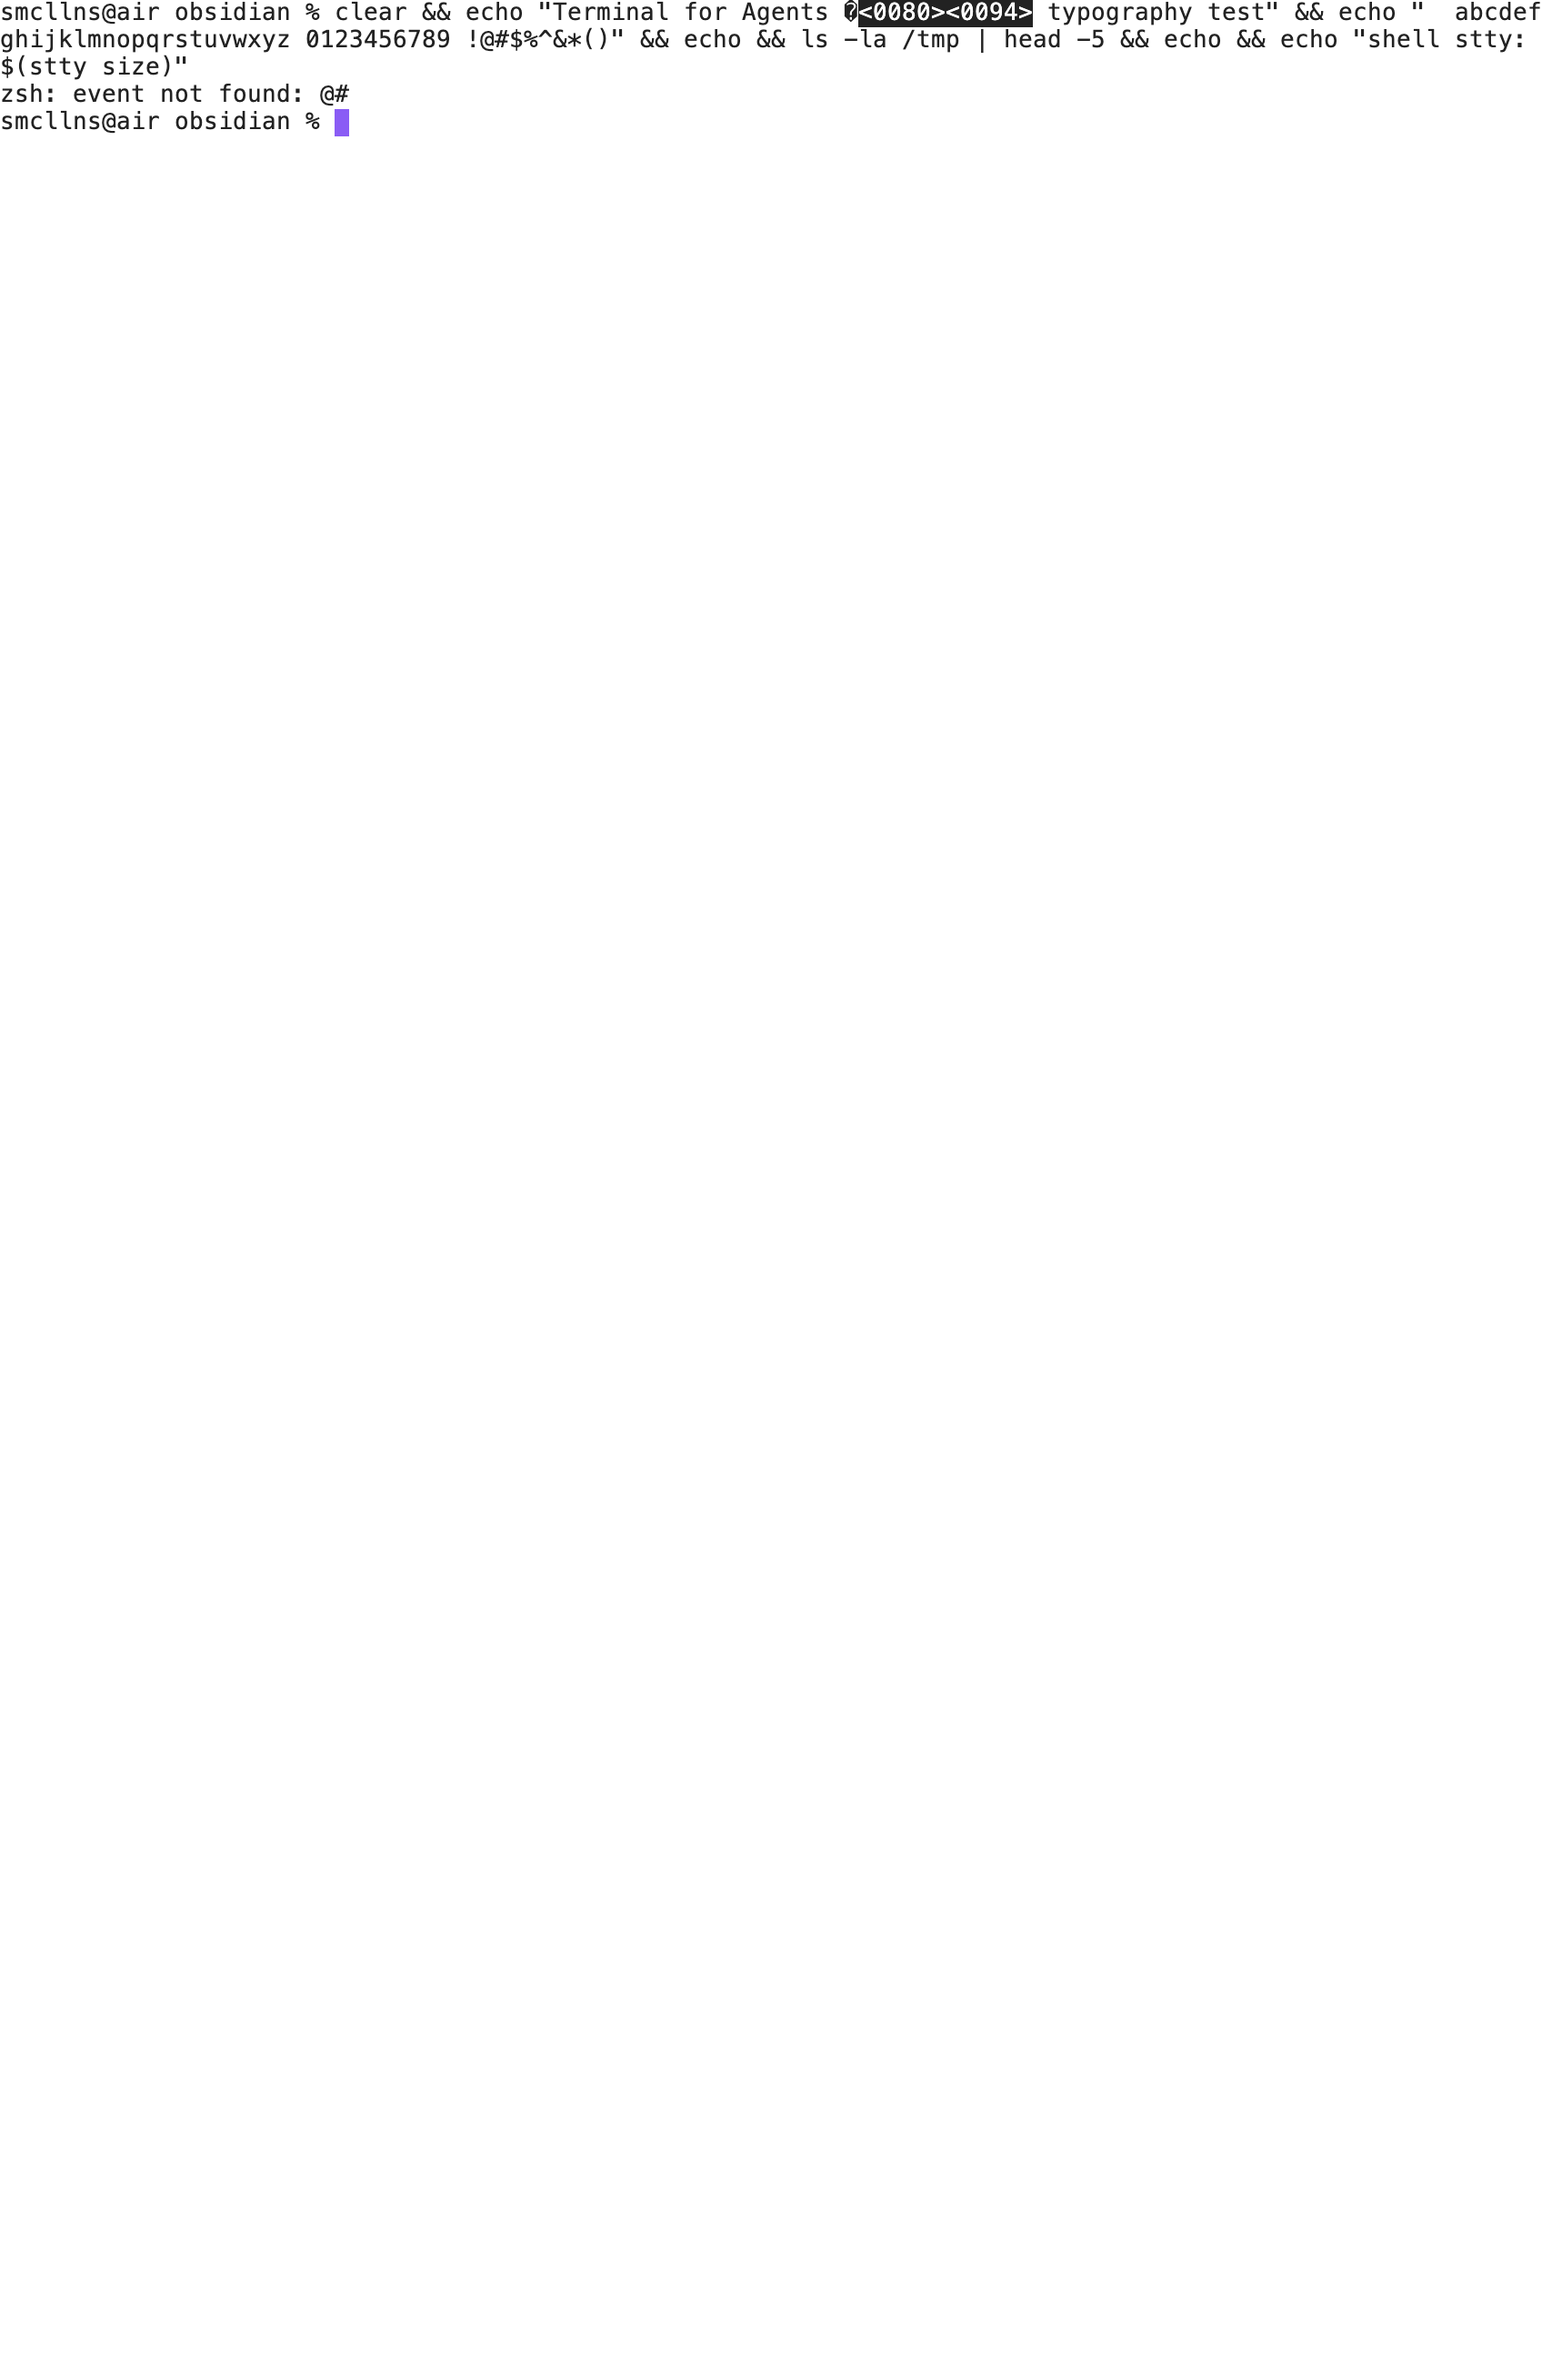
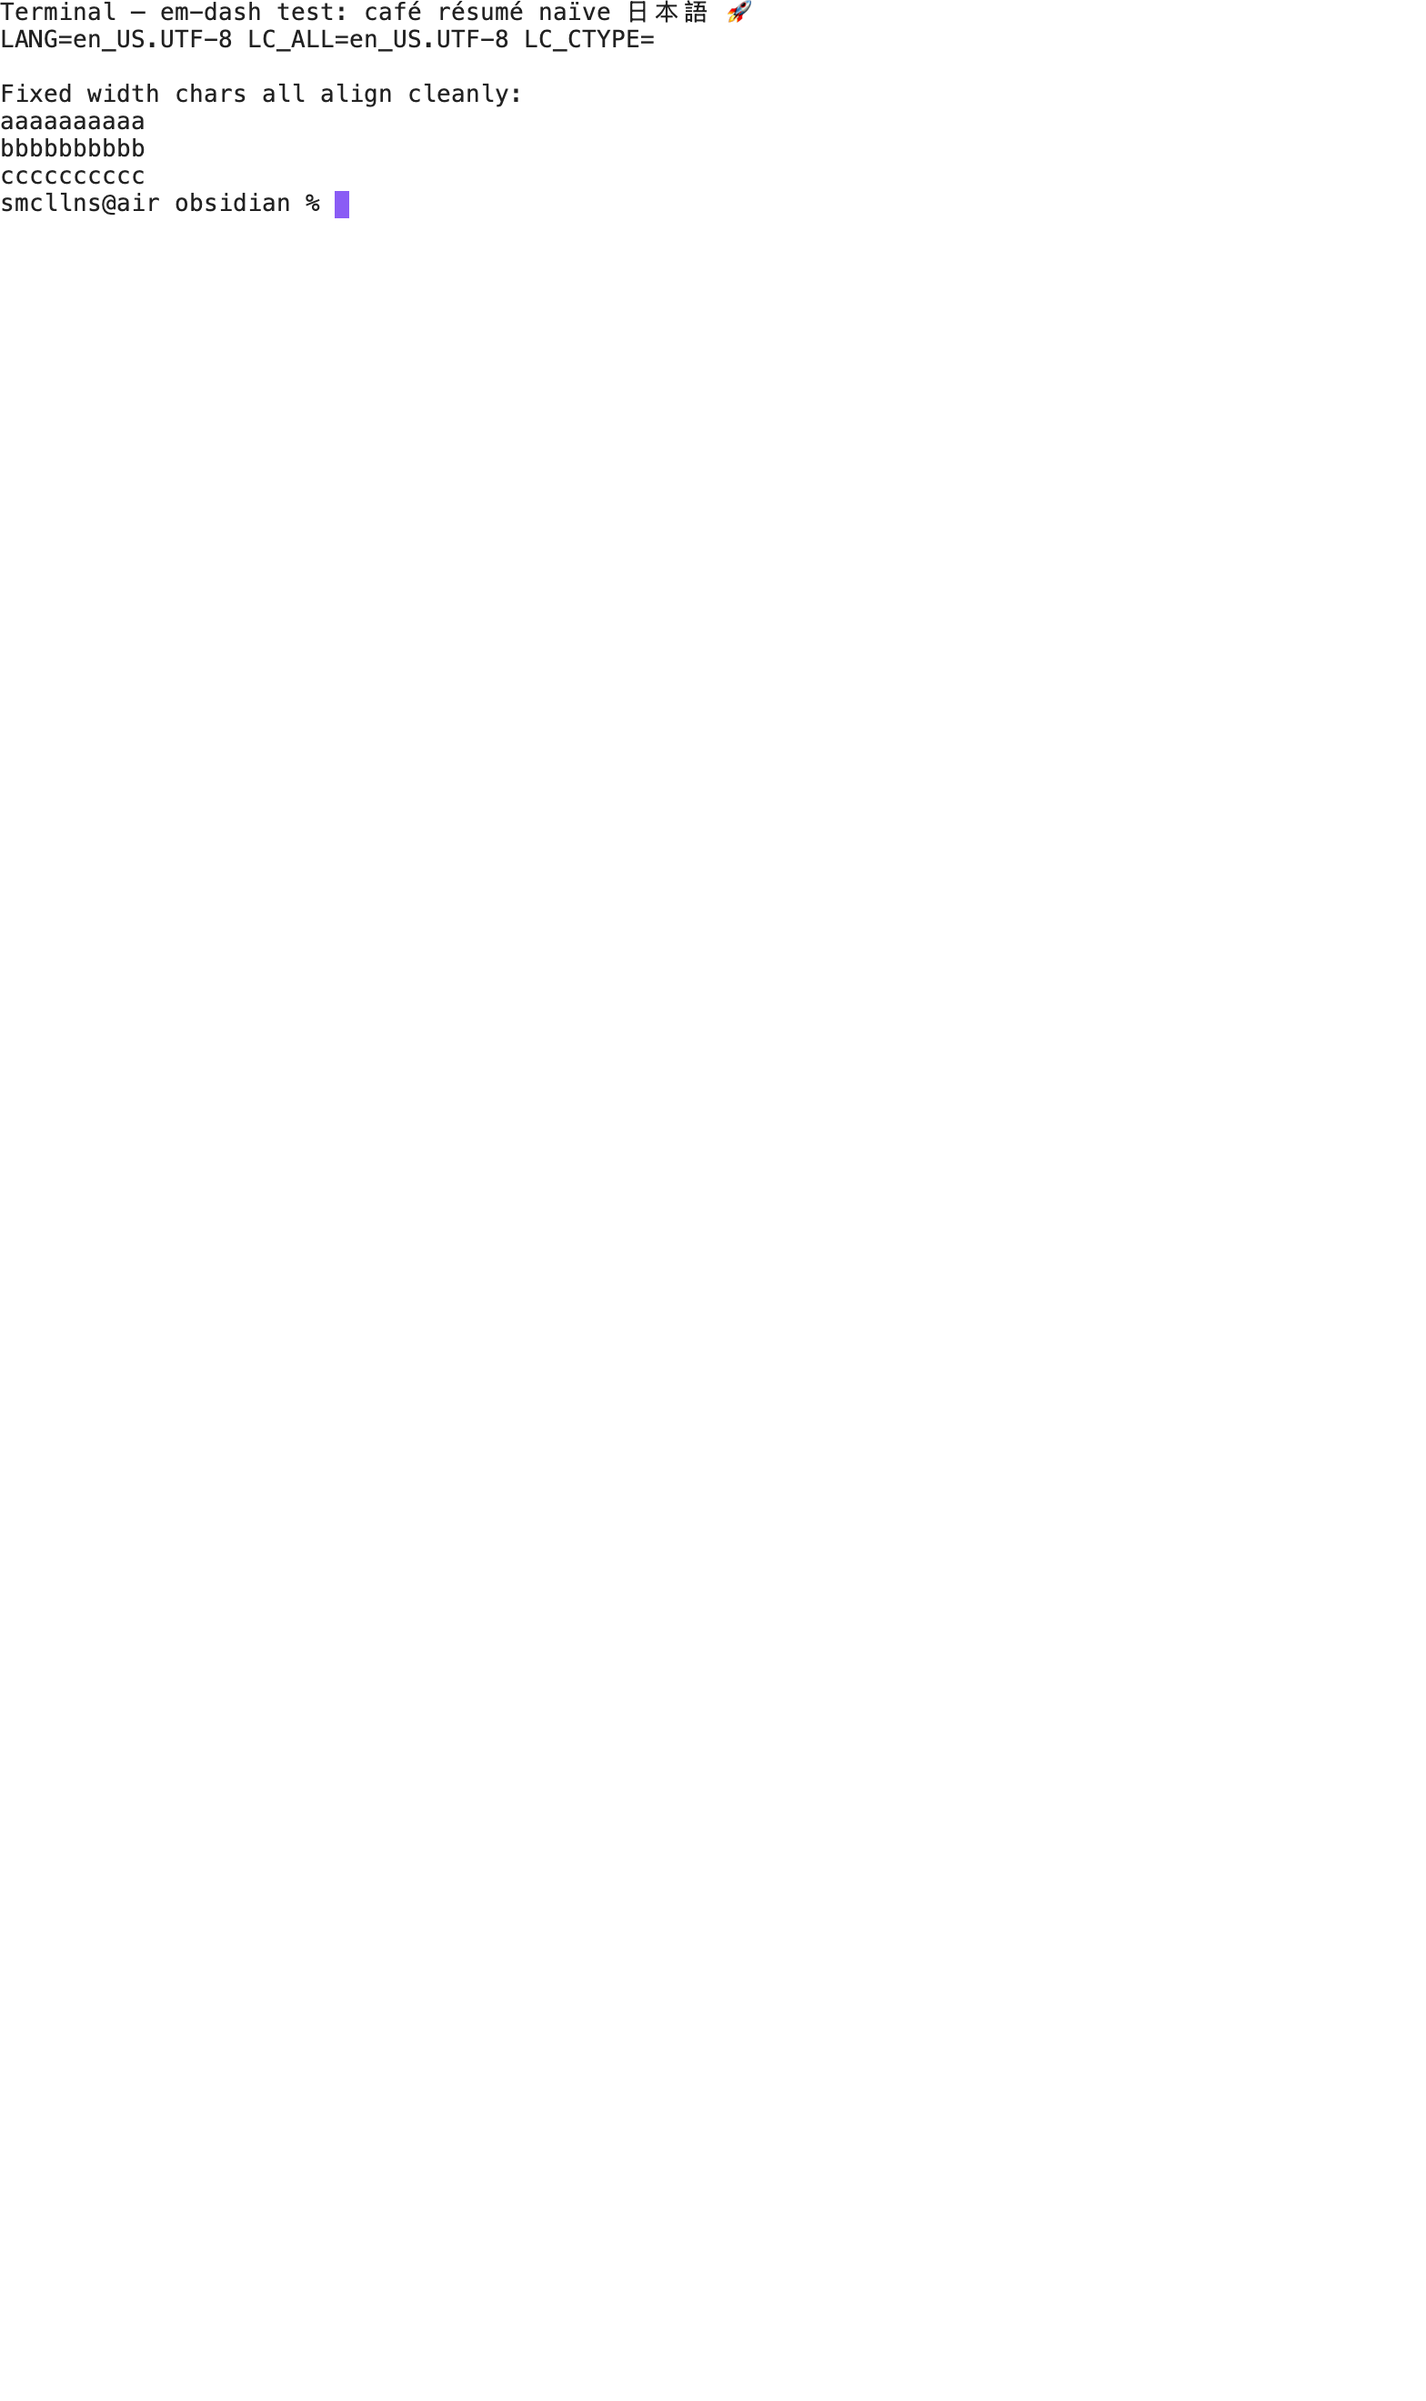
fix: Set UTF-8 locale on shell spawn; drop horizontal padding (scrollbar reserve covers it)
Two issues Sam spotted in the latest screenshot:

1. Em-dash rendering as <0080><0094>. Obsidian's launch env lacks
   LANG/LC_ALL, so zsh and CLIs emit bytes treated as POSIX/8bit
   instead of UTF-8 — ghostty-web's decoder gets unmappable bytes and
   shows them as raw codepoint boxes. Terminal.app injects en_US.UTF-8
   automatically; do the same here. Keep an inherited *.UTF-8 LANG if
   present, otherwise default to en_US.UTF-8. Set LC_ALL too so subshells
   and tools that respect LC_ALL get the same locale.

2. Empty space on the right of the canvas. ghostty-web's FitAddon
   already reserves ~14px for its scrollbar; my CSS also had 12px right
   padding, so the gap was ~26px. Removed horizontal padding entirely —
   left edge is now flush, right edge has just the scrollbar reservation
   (~15px observed, down from ~46px before).

Verified live: café, résumé, naïve, 日本語, em-dash, 🚀 all render
cleanly; column-aligned a/b/c output stays in columns. Replaces
docs/images/terminal-demo.png with the test render.

Changed region(s): [[0.0, 0.0, 1.0, 0.0931]]

diff --git a/main.ts b/main.ts
@@ -312,11 +312,20 @@ class TerminalView extends ItemView {
 		);
 		fs.mkdirSync(path.dirname(contextFile), { recursive: true });
 
+		// Obsidian launches with a minimal env that lacks LANG/LC_ALL. Without a
+		// UTF-8 locale, zsh and most CLIs emit raw bytes that ghostty-web shows as
+		// `<NNNN>` codepoint boxes (em-dashes, accented chars, etc. all break).
+		// Terminal.app injects en_US.UTF-8 automatically; do the same here.
+		const inheritedLang = process.env.LANG ?? "";
+		const lang = /\.UTF-?8$/i.test(inheritedLang) ? inheritedLang : "en_US.UTF-8";
+
 		return {
 			...(process.env as Record<string, string>),
 			TERM: "xterm-256color",
 			COLORTERM: "truecolor",
 			TERM_PROGRAM: "obsidian-terminal-agents",
+			LANG: lang,
+			LC_ALL: lang,
 			OBSIDIAN_VAULT: vaultRoot,
 			// Strip control chars and surrounding quotes/backslashes from the vault
 			// name — it lands in the agent's system prompt as text, and we don't

diff --git a/main.js b/main.js
@@ -2656,11 +2656,15 @@ class TerminalView extends import_obsidian2.ItemView {
     const vaultName = this.app.vault.getName();
     const contextFile = path2.join(os2.tmpdir(), "obs-terminal-agents", sanitize(vaultName), "context.json");
     fs3.mkdirSync(path2.dirname(contextFile), { recursive: true });
+    const inheritedLang = process.env.LANG ?? "";
+    const lang = /\.UTF-?8$/i.test(inheritedLang) ? inheritedLang : "en_US.UTF-8";
     return {
       ...process.env,
       TERM: "xterm-256color",
       COLORTERM: "truecolor",
       TERM_PROGRAM: "obsidian-terminal-agents",
+      LANG: lang,
+      LC_ALL: lang,
       OBSIDIAN_VAULT: vaultRoot,
       OBSIDIAN_VAULT_NAME: sanitizeForPrompt(vaultName),
       OBSIDIAN_CONTEXT_FILE: contextFile,

diff --git a/styles.css b/styles.css
@@ -24,7 +24,11 @@
 	position: relative;
 	width: 100%;
 	height: 100%;
-	padding: 8px 12px;
+	/* Tiny top/bottom padding only. Horizontal padding doubles the empty gap on
+	 * the right edge because ghostty-web's FitAddon already reserves ~14px there
+	 * for its scrollbar. Left padding has no equivalent reservation, so leaving
+	 * it at 0 keeps text flush with the pane edge. */
+	padding: 6px 0 0 0;
 	box-sizing: border-box;
 	overflow: hidden;
 }
